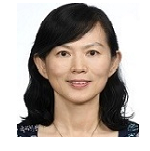
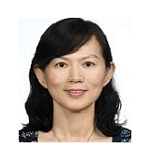
图像大小

diff --git a/css/nasac_fmac.css b/css/nasac_fmac.css
@@ -632,7 +632,7 @@ top:0
 }
 
 .photo6{
-	background-image:url(../images/photo/66.png)
+	background-image:url(../images/photo/666.png)
 }
 
 .photo7{
